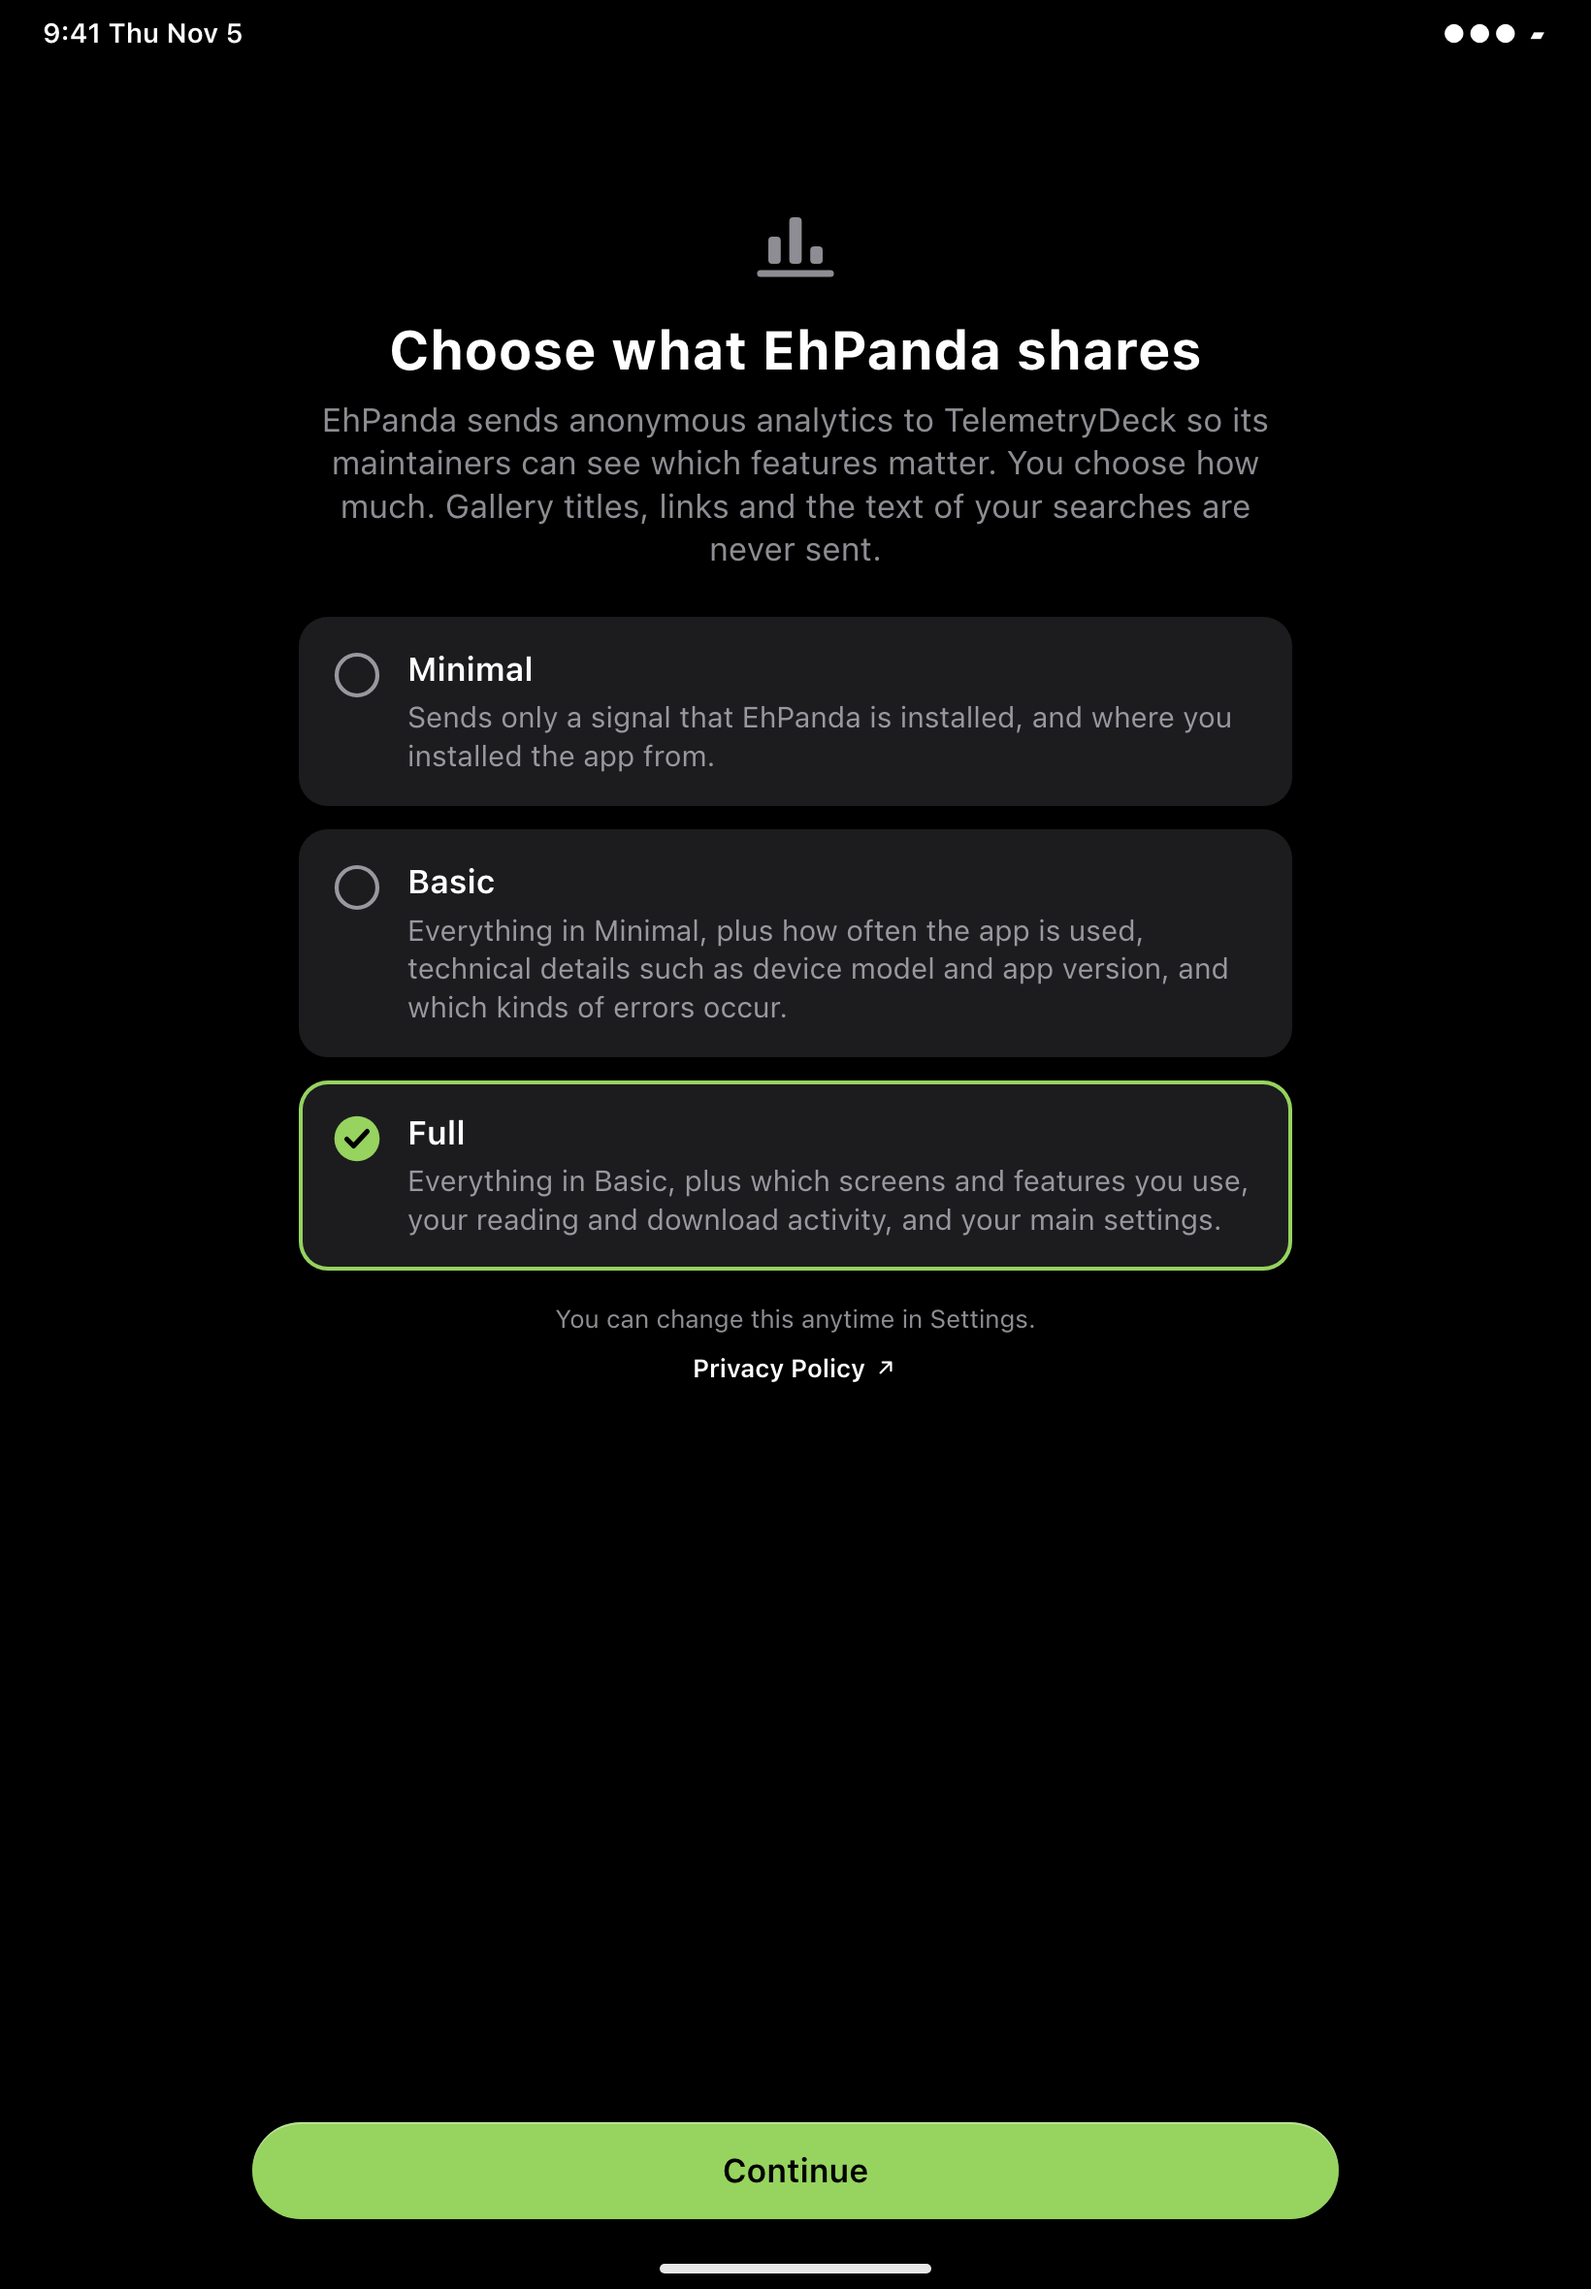
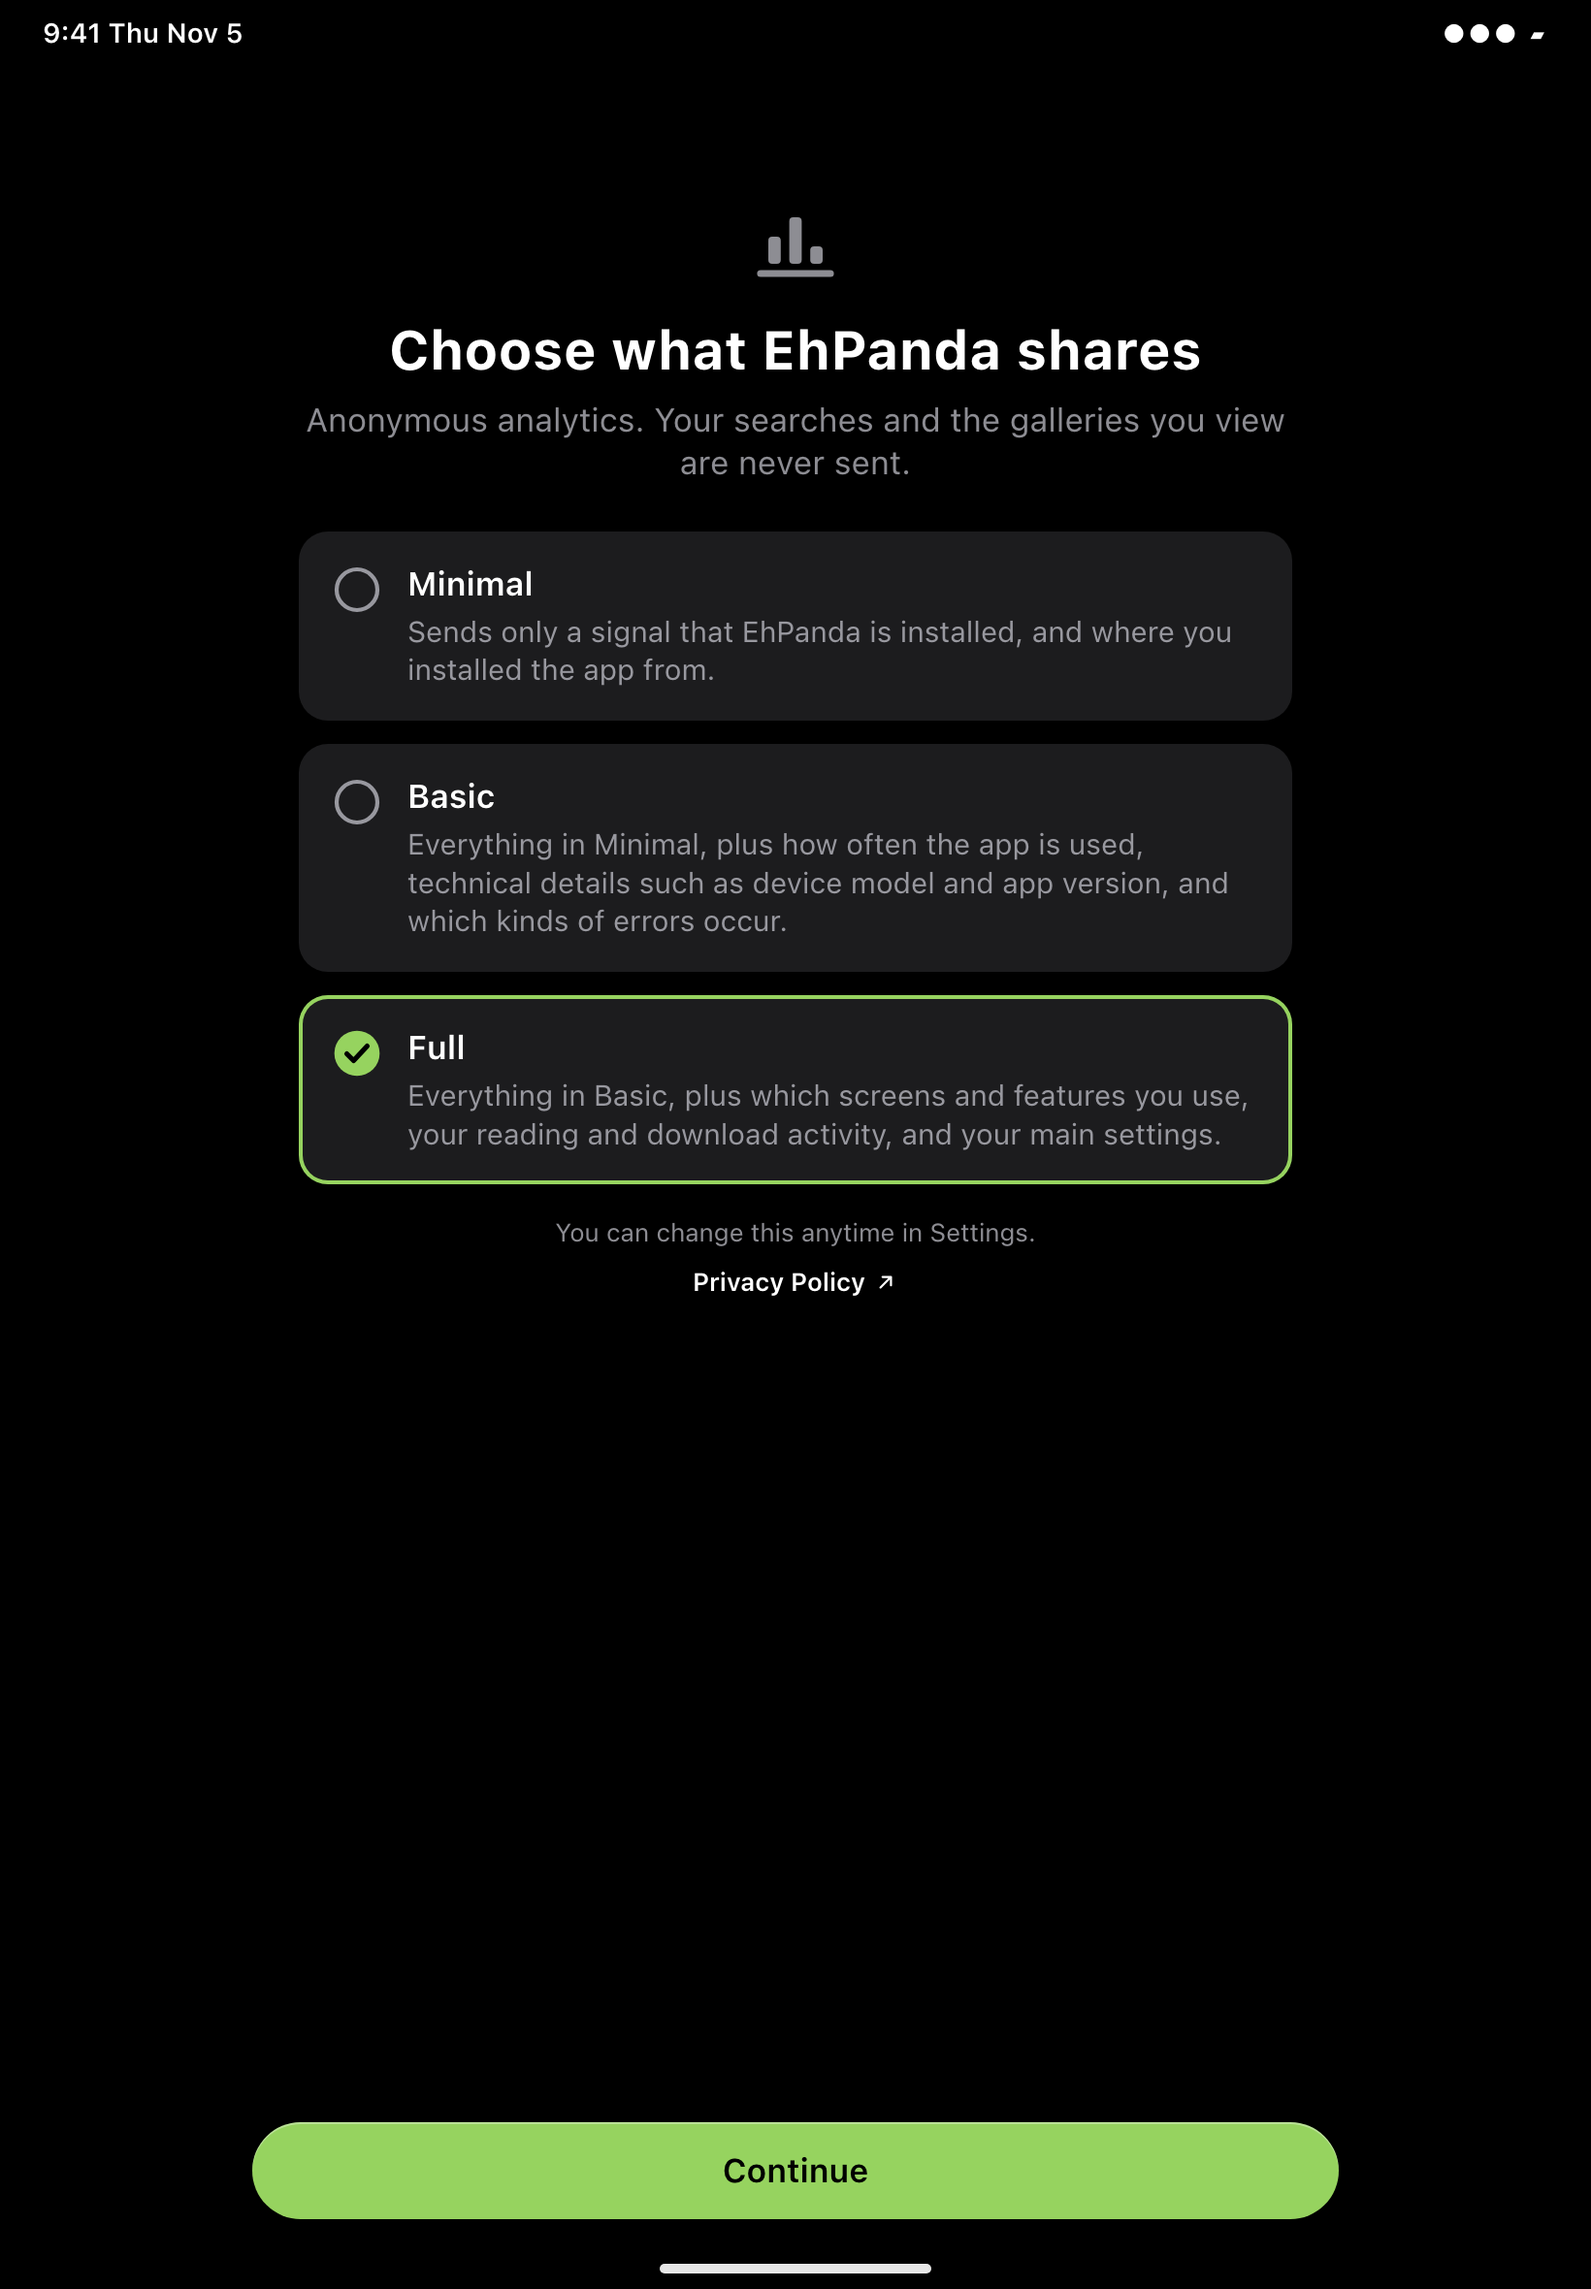
docs(18): take the designer's spec refresh for the short intro

Changed region(s): [[0.1866, 0.1547, 0.8396, 0.6186]]

diff --git a/.planning/phases/18-in-app-3-0-readiness-age-wall-analytics-choice-comment-moder/18-CONTEXT.md b/.planning/phases/18-in-app-3-0-readiness-age-wall-analytics-choice-comment-moder/18-CONTEXT.md
@@ -4,7 +4,7 @@
 **Status:** Ready for planning. UI execution waits for the UI-SPEC (D-17).
 **Amended:** 2026-11-05, during planning: D-06a, D-06b, DD-09a (owner msgs 1795, 1796, 1805; analytics "Minimal"),
 D-06c (owner msgs 1812, 1818; the install signal carries the install source), D-06d (owner msgs 1830, 1839; Basic's
-description builds on Minimal), D-06e (owner msgs 1844, 1854, 1864; the short analytics intro), D-14a (owner msg 1795; Blocked Users in Account settings), D-17a (UI-SPEC delivered, msgs 1791, 1803, 1807, 1820, 1826, 1843). The
+description builds on Minimal), D-06e (owner msgs 1844, 1854, 1864; the short analytics intro), D-14a (owner msg 1795; Blocked Users in Account settings), D-17a (UI-SPEC delivered, msgs 1791, 1803, 1807, 1820, 1826, 1843, 1866). The
 original decisions are kept as written; where an amendment differs, the amendment wins.
 **Sources:** the discussion prep [18-DISCUSSION-PREP.md](18-DISCUSSION-PREP.md) (locked decisions L1 to L46, gray areas GA-1 to GA-8, developer defaults, outside blockers, split proposal); the owner's answers to card msg 1748 (owner msg 1753) and card msg 1759 (owner msg 1765); the owner's copy approvals (msgs 1767, 1780). Where the owner answered, the answer overrides the prep. All dates are UTC.
 
@@ -247,7 +247,8 @@ Owner decisions are binding. "Prep L*n*" and "GA-*n*" refer to [18-DISCUSSION-PR
   msg 1803, finalised it in msg 1807 and refreshed the Minimal line and mockups 03, 04, 13 and 21 for D-06c
   in msg 1820, added the title line-break rule (owner msg 1822; C-3: a title's last line is never a single
   word, or for zh/ja/ko never a single character, in any locale or text size) in msg 1826, and took the Revision 3
-  Basic line (D-06d, owner msg 1839) into the spec and refreshed mockups 03, 04, 12 and 21 in msg 1843: [18-UI-SPEC.md](18-UI-SPEC.md) with 24 mockups in `mockups/`. It is the
+  Basic line (D-06d, owner msg 1839) into the spec and refreshed mockups 03, 04, 12 and 21 in msg 1843, and took
+  the short intro (D-06e, owner msg 1864) into the spec and refreshed mockups 03, 04 and 21 in msg 1866: [18-UI-SPEC.md](18-UI-SPEC.md) with 24 mockups in `mockups/`. It is the
   design contract for every UI task; `/gsd-ui-phase` is not run. His layout calls: a separate Continue on the
   analytics choice, dimmed until a level is picked; a `…` menu on each comment in the list with the same items on
   long-press and as VoiceOver actions, long-press only on the Detail strip; Report, Block and the posting warning are

diff --git a/.planning/phases/18-in-app-3-0-readiness-age-wall-analytics-choice-comment-moder/18-UI-SPEC.md b/.planning/phases/18-in-app-3-0-readiness-age-wall-analytics-choice-comment-moder/18-UI-SPEC.md
@@ -177,7 +177,7 @@ the catalog may rename them, never the text. Nothing on any screen below may say
 | Continue hint while dimmed (VoiceOver) | `age_wall.continue_hint` (age wall only — see C-2) |
 | Age wall footnote (always visible) | `age_wall.footnote` |
 | Analytics title / body | `consent.title` / `consent.body` |
-| Level names / descriptions | `consent.level.{minimal,basic,full}` / `…description`. Minimal replaces None (owner msg 1795); its name and description and the new `consent.body` are Camo's wording: name and `consent.body` from msg 1797 (approved msg 1805), Minimal's description from Revision 2 in msg 1815 (**approved msg 1818**, replaces the 1805 line), Basic's description from Revision 3 in msg 1832 (**approved msg 1839**), as shown in the mockups |
+| Level names / descriptions | `consent.level.{minimal,basic,full}` / `…description`. Minimal replaces None (owner msg 1795); its name and description and the new `consent.body` are Camo's wording: name and `consent.body` from msg 1797 (approved msg 1805), Minimal's description from Revision 2 in msg 1815 (**approved msg 1818**, replaces the 1805 line), Basic's description from Revision 3 in msg 1832 (**approved msg 1839**), `consent.body` from the Revision 5 fallback in msg 1857 (**approved msg 1864**, replaces the 1805 body), as shown in the mockups |
 | Analytics footer | `consent.footer` |
 | Privacy link (both places) | `consent.privacy_link` |
 | Settings analytics row | `shareAnalyticsData` (existing key, now a picker); section header `analytics` (existing) |
